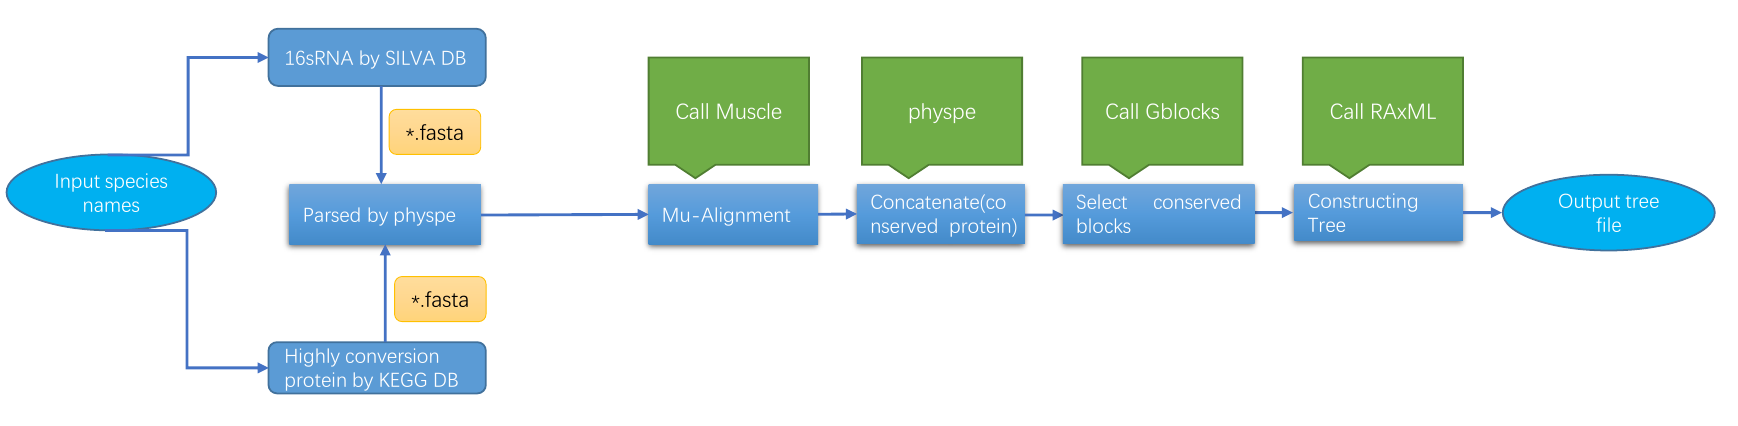
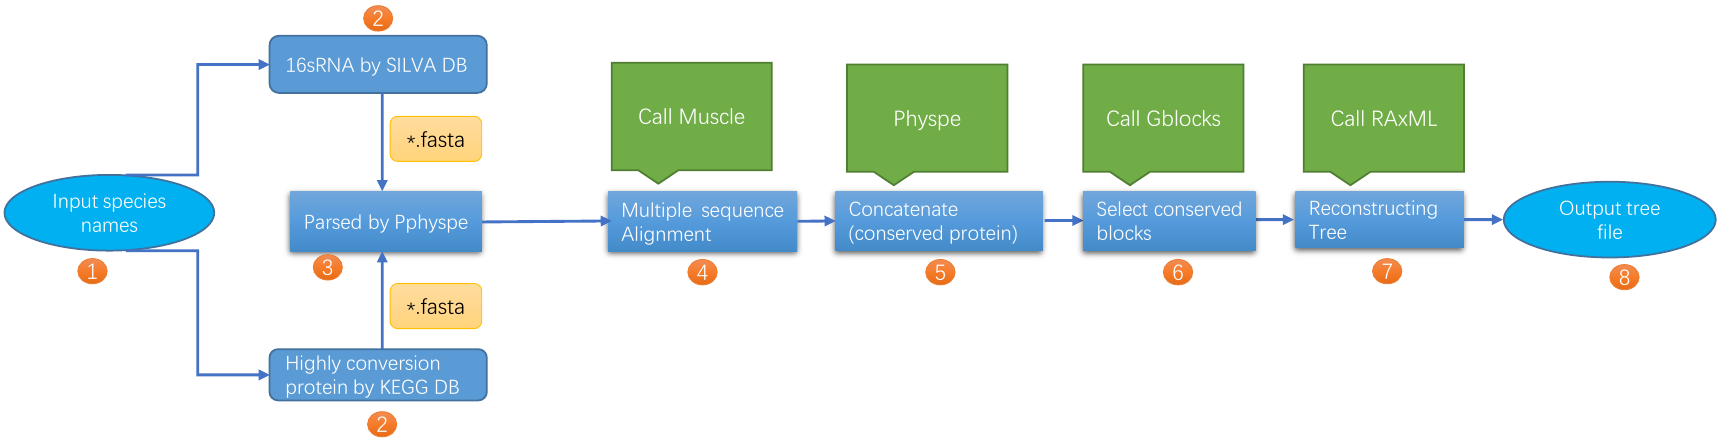
update readme

diff --git a/physpetool/physpe.py b/physpetool/physpe.py
@@ -24,17 +24,17 @@ Reconstruct phylogenetic tree
 
 
 def version_info():
-    VERSION_INFO = 'V0.1.1'
-    MUSCLE_INFO = 'v3.8.31'
-    GBLOCKS_INFO = '0.91b'
-    RAXML_INFO = 'v8.2.3'
-    AUTHOR_INFO = 'Author: Yang Fang'
-    print 'physpe version: ', VERSION_INFO
-    print AUTHOR_INFO
+    version_info = 'V0.1.1'
+    muscle_info = 'v3.8.31'
+    gblocks_info = '0.91b'
+    raxml_info = 'v8.2.3'
+    author_info = 'Author: Yang Fang'
+    print 'physpe version: ', version_info
+    print author_info
     print "call software INFO:"
-    print 'muscle version: ', MUSCLE_INFO
-    print 'RAxML version: ', RAXML_INFO
-    print 'Gblocks version: ', GBLOCKS_INFO
+    print 'muscle version: ', muscle_info
+    print 'RAxML version: ', raxml_info
+    print 'Gblocks version: ', gblocks_info
 
 
 parser = argparse.ArgumentParser(description=APP_DESC)

diff --git a/README.rst b/README.rst
@@ -9,18 +9,17 @@
 
 
 
-Documentation of one command auto construct species phylogenetic tree
+Documentation of one command auto reconstruct species phylogenetic tree
 ==============================================================================
 
 Introduction
 ------------------------------------------------------------------------------
 In some filed combine species phylogenetic tree do some prediction are very important for instance,
 protein-protein interactions and gene pathway members prediction. In this predicted construct a exact species phylogenetic tree
-is necessary,but the process of constructing the tree species is very tedious.
+is necessary, but the process of constructing the tree species is very tedious.
 
-we developing a command line software **physpe**,which only one command line to construct species phylogenetic tree,User only need to provide a contain species names files
-(the species names must be a abbreviation same with **KEGG DATABASE** organisms abbreviation), the **physpe** auto construct species
-phylogenetic tree.
+We developing a command line software **Physpe**, which only one command line to construct species phylogenetic tree. User need to provide a txt files, witch contain species names only.
+(the species names must be a abbreviation same with **KEGG DATABASE** organisms abbreviation), the **Physpe** auto reconstruct species phylogenetic tree.
 
 Physpe workflow
 ----------------------------------------------------------------------------
@@ -30,40 +29,40 @@ Physpe workflow
 
 Physpe workflow includes the following steps:
 
-- Prepare organisms name to reconstruct phylogenetic tree as example `download <https://gitlab.com/xiaoxiaoyang/physpetools/raw/master/examples/organism_example_list.txt>`_.
+1. Prepare organisms names to reconstruct phylogenetic tree as `example <https://gitlab.com/xiaoxiaoyang/physpetools/raw/master/examples/organism_example_list.txt>`_.
 
-- Choice the way to reconstruct phylogenetic tree, use 16s RNA or Highly conversion proteins
+2. Choice the way to reconstruct phylogenetic tree, use 16s RNA or Highly conversion proteins.
 
-- Query database and parse retrieve fasta file
+3. Query database and parse retrieve fasta format files.
 
-- Do multiple sequence alignment by call Muscle
+4. Do multiple sequence alignment by call Muscle.
 
-- Concatenate conserved proteins by physpe
+5. Concatenate conserved proteins by Physpe.
 
-- Select conserved blocks by Call Gblosks
+6. Select conserved blocks by Call Gblosks.
 
-- Reconstructing phylogenetic tree by Call RAxML
+7. Reconstructing phylogenetic tree by Call RAxML.
 
-- Output phylogenetic tree files
+8. Output reconstruct phylogenetic tree files.
 
 
 
 Features
 --------------------------------------------------------------------------------
-- Easy to use(one command line auto construct phylogenetic tree)
+- Easy to use (one command line auto construct phylogenetic tree).
 
-- Multi-selection(selection construct phylogenetic tree by highly conversion protein or 16s RNA)
+- Multi-selection(selection construct phylogenetic tree by highly conversion protein or 16s RNA).
 
-- Adjustable parameters(User can choice any parameters by own)
+- Adjustable parameters(user can choice any enable parameters by own).
 
-- Only provide a species list
+- User need provide a species list (reconstruct phylogenetic tree organisms) only.
 
 
 
 Install
 -------------------------------------------------------------------------------
 
-1. **physpe** is released on PyPI, so all you need install:
+1. **Physpe** is released on PyPI, so all you need install:
 
 .. code-block:: console
 
@@ -75,9 +74,9 @@ To upgrade to latest version:
 
 	$ pip install --upgrade physpe
 
-2. You can install **physpe** by download the latest released version:
+2. You can install **Physpe** by download the latest released version:
 
-- Download latest released version **.tar.gz** file　`download <https://gitlab.com/xiaoxiaoyang/physpetools/tags>`_.
+- `Download <https://gitlab.com/xiaoxiaoyang/physpetools/tags>`_ latest released version **.tar.gz** file.
 
 - Local installation:
 
@@ -85,7 +84,7 @@ To upgrade to latest version:
 
 	$ pip install physpetools-v*.tar.gz
 
-3. Use git command clone **physpe**:
+3. Use git command clone **Physpe**:
 
 .. code-block:: console
 
@@ -102,16 +101,19 @@ To upgrade to latest version:
 Usage
 -------------------------------------------------------------------------------
 
-User should prepare a txt file contain the abbreviation names of organisms example `download <https://gitlab.com/xiaoxiaoyang/physpetools/raw/master/examples/organism_example_list.txt>`_.
+User should prepare a txt file contain the abbreviation names of organisms `example <https://gitlab.com/xiaoxiaoyang/physpetools/raw/master/examples/organism_example_list.txt>`_.
 
-
+Use **Physpe** from the command line like this:
 
 .. code-block:: console
 
-    $ physpe -in organism_example_list.txt -out phytree
+    $ physpe -in organism_example_list.txt [options]*
 
 Options
 -------------------------------------------------------------------------------
+
+-h/--help print help message and exits.
+
 ``-in``  A txt file contain the a abbreviation species name same with KEGG species abbreviation.
 
 ``-out`` A directory contain construct Tree files.
